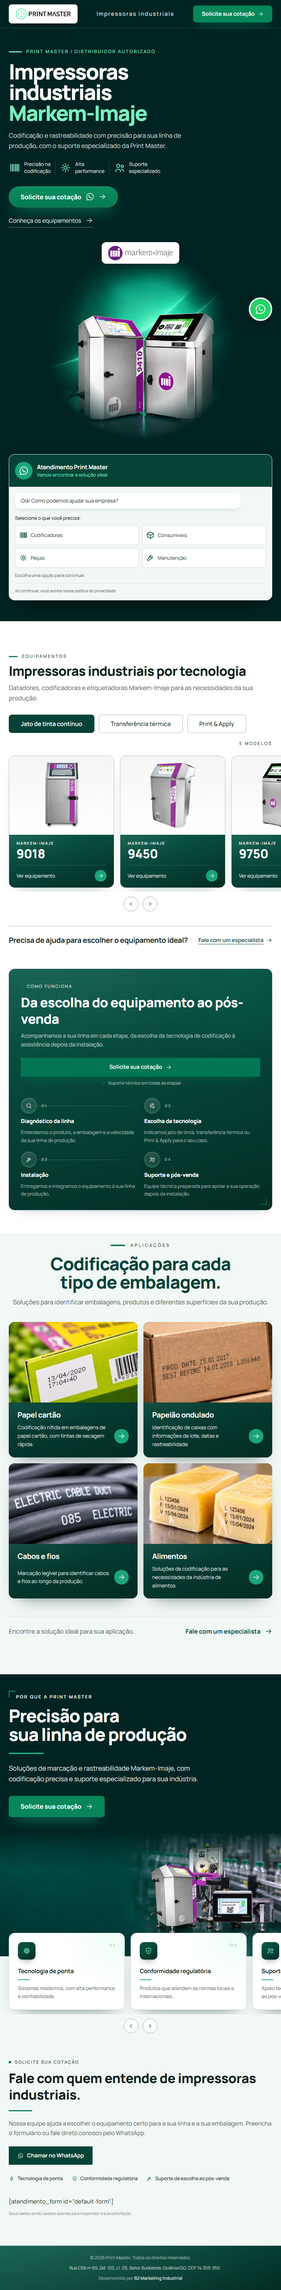
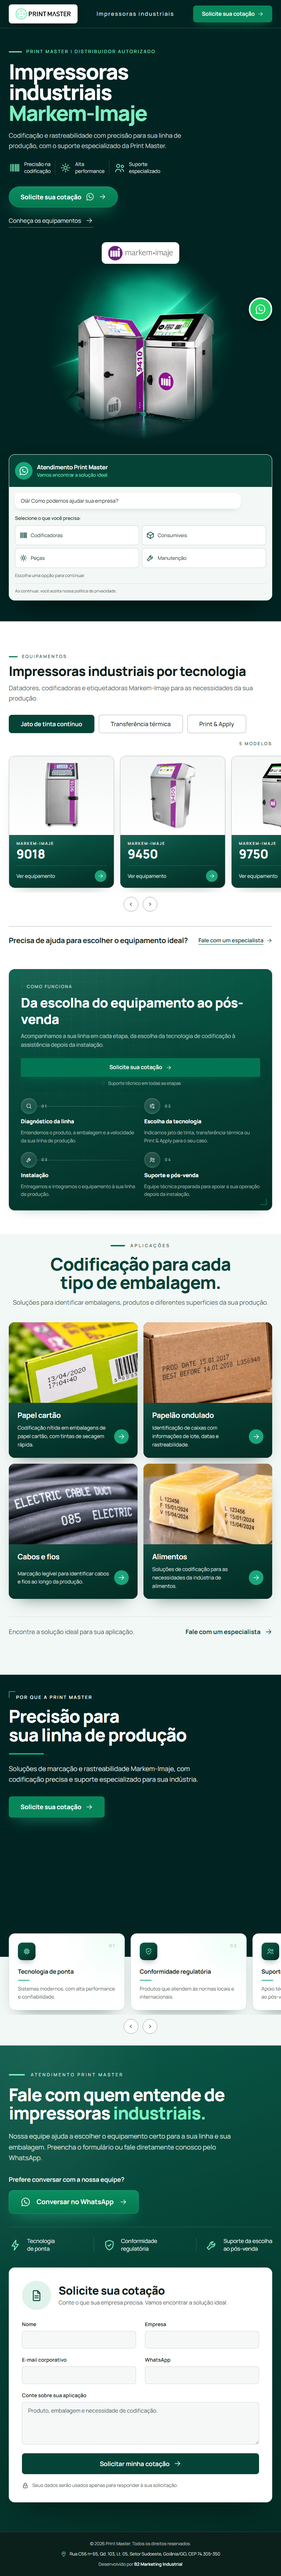
feat: cotação e rodapé no mockup da Print Master
- cotação verde-escura: o shortcode do formulário fica num card branco com
  cabeçalho e a nota de LGPD com cadeado (ícone lock novo);
- fora do WordPress, o shortcode cru vira a prévia dos campos do mockup
  antes da primeira pintura (CTA cotacao-enviar); no WordPress, o
  formulário do plugin;
- texto à direita no mockup: eyebrow "Atendimento Print Master",
  "industriais." em menta, convite e botão "Conversar no WhatsApp" e selos
  em duas linhas;
- rodapé mais escuro, alfinete em menta;
- check:lp: fundo e ritmo da Cotação repinados com comentário datado.

diff --git a/src/data/content.ts b/src/data/content.ts
@@ -110,9 +110,17 @@ export const chatPreview = {
 /* ----------------------------------------------------------------- cotação */
 
 export const quote = {
-  eyebrow: 'Solicite sua cotação',
+  /** Mockup da cotação (27/10/2026). */
+  eyebrow: 'Atendimento Print Master',
   title: 'Fale com quem entende de impressoras industriais.',
-  text: 'Nossa equipe ajuda a escolher o equipamento certo para a sua linha e a sua embalagem. Preencha o formulário ou fale direto conosco pelo WhatsApp.',
+  /** Trecho final do H2, em menta. */
+  highlight: 'industriais.',
+  text: 'Nossa equipe ajuda a escolher o equipamento certo para a sua linha e sua embalagem. Preencha o formulário ou fale diretamente conosco pelo WhatsApp.',
+  whatsappPrompt: 'Prefere conversar com a nossa equipe?',
+  whatsappLabel: 'Conversar no WhatsApp',
+  /** Cabeçalho do card do formulário (o formulário em si é o shortcode). */
+  formTitle: 'Solicite sua cotação',
+  formText: 'Conte o que sua empresa precisa. Vamos encontrar a solução ideal.',
   trust: [
     { icon: 'zap', label: 'Tecnologia de ponta' },
     { icon: 'shield', label: 'Conformidade regulatória' },
@@ -123,10 +131,35 @@ export const quote = {
 } as const satisfies {
   eyebrow: string
   title: string
+  highlight: string
   text: string
+  whatsappPrompt: string
+  whatsappLabel: string
+  formTitle: string
+  formText: string
   trust: readonly [TrustItem, TrustItem, TrustItem]
   lgpd: string
 }
+
+/**
+ * Prévia dos campos do formulário de cotação, só fora do WordPress: no lugar do texto cru do
+ * shortcode, a página mostra como o formulário aparece (mockup de 27/10/2026). No WordPress o
+ * plugin troca o shortcode pelo formulário de verdade e esta prévia não é usada.
+ */
+export const formPreview = {
+  fields: [
+    { id: 'nome', label: 'Nome', type: 'text' },
+    { id: 'empresa', label: 'Empresa', type: 'text' },
+    { id: 'email', label: 'E-mail corporativo', type: 'email' },
+    { id: 'whatsapp', label: 'WhatsApp', type: 'tel' },
+  ],
+  message: {
+    id: 'aplicacao',
+    label: 'Conte sobre sua aplicação',
+    placeholder: 'Produto, embalagem e necessidade de codificação.',
+  },
+  submit: 'Solicitar minha cotação',
+} as const
 
 /* ------------------------------------------------------------------ footer */
 

diff --git a/src/data/icons.ts b/src/data/icons.ts
@@ -93,6 +93,8 @@ export const iconPaths = {
   alert: '<path d="M12 4.3 21 19.7H3L12 4.3Z"/><path d="M12 10v3.8"/><path d="M12 16.8h.01"/>',
   'clipboard-check':
     '<rect x="5" y="4.5" width="14" height="16" rx="2"/><path d="M9 4.5V3.4c0-.5.4-.9.9-.9h4.2c.5 0 .9.4.9.9v1.1"/><path d="m9.2 12.6 2 2 3.6-4"/>',
+  // Cadeado da nota de privacidade da cotação (mockup de 27/10/2026).
+  lock: '<rect x="5" y="11" width="14" height="10" rx="2"/><path d="M8 11V7a4 4 0 0 1 8 0v4"/><path d="M12 15.5v2"/>',
 } as const satisfies Record<string, string>
 
 export type IconName = keyof typeof iconPaths

diff --git a/docs/BRIEFING.md b/docs/BRIEFING.md
@@ -118,21 +118,24 @@ Derivada em: 26/10/2026 · comando aplicado: `npm run compose -- vitrine process
 
 ## Desvios locais do padrão
 
-| Arquivo                                                                                                    | O que mudou                                                                                                                                                                                                                                                                                                   | Por quê                                                                                                                                                                                                                                                                                                                                                                                                                                                                                                |
-| ---------------------------------------------------------------------------------------------------------- | ------------------------------------------------------------------------------------------------------------------------------------------------------------------------------------------------------------------------------------------------------------------------------------------------------------- | ------------------------------------------------------------------------------------------------------------------------------------------------------------------------------------------------------------------------------------------------------------------------------------------------------------------------------------------------------------------------------------------------------------------------------------------------------------------------------------------------------ |
-| `src/styles/global.css`                                                                                    | tokens com os verdes da marca; Manrope de `@fontsource-variable/manrope` com reserva de métricas Arial                                                                                                                                                                                                        | entrada 14; a troca tardia do Google Fonts estourou o CLS no Lighthouse CI da LP de locação                                                                                                                                                                                                                                                                                                                                                                                                            |
-| `src/layouts/Layout.astro`                                                                                 | preload do woff2 latino no lugar dos links do Google Fonts                                                                                                                                                                                                                                                    | idem                                                                                                                                                                                                                                                                                                                                                                                                                                                                                                   |
-| `src/components/Header.astro`                                                                              | mockup de abertura (26/10/2026): barra verde-escura com fio menta, logo em caixa branca dentro da barra, tagline "Impressoras industriais" e CTA verde arredondado com seta                                                                                                                                   | pedido do usuário; ordem logo · tagline · CTA mantida                                                                                                                                                                                                                                                                                                                                                                                                                                                  |
-| `src/components/Hero.astro`, `src/data/content.ts`                                                         | 2º mockup de abertura (26/10/2026): eyebrow "Print Master                                                                                                                                                                                                                                                     | Distribuidor autorizado", H1 em três linhas com "Markem-Imaje" em menta, pontos sem caixa, botão em pílula com WhatsApp e link "Conheça os equipamentos" (âncora `#vitrine`, `data-cta="hero-secondary"`), selo Markem-Imaje sobre o 9410 e o 9750, banner ancorado pelo centro da coluna 2 (texto 440px · janela · chat 300px); fora do WordPress o shortcode cru do chat vira a prévia do widget (CTAs `hero-chat-codificadoras`, `-consumiveis`, `-pecas`, `-manutencao`) antes da primeira pintura | pedido do usuário; grid de três colunas e coluna de 300px do chat mantidos; o botão flutuante de WhatsApp do mockup espera o número comercial |
-| `src/components/sections/ProductShowcase.astro`, `src/data/sections/vitrine.ts`, `lp.manifest.json`        | variante local do mockup da vitrine (26/10/2026): grupos em abas acessíveis com a contagem de modelos, cards com foto grande e painel verde-escuro (marca, modelo em destaque, "Ver equipamento"), faixa "Precisa de ajuda…" com o CTA `vitrine-ajuda`                                                        | pedido do usuário; **o `compose` sobrescreve o componente** — reaplicar após recompor                                                                                                                                                                                                                                                                                                                                                                                                                  |
-| `src/components/Hero.astro` (banner)                                                                       | o banner é dimensionado pela largura entre o texto e o chat (`--photo-w`), ancorado pela base e pelo centro do par (52,5%); fundo do header e do hero em `--color-hero-deep` (#012422, a borda da imagem)                                                                                                     | o par de equipamentos tem sempre a largura da janela, em qualquer tela                                                                                                                                                                                                                                                                                                                                                                                                                                 |
-| `src/components/WhatsAppFloat.astro`, `src/layouts/Layout.astro`                                           | o botão flutuante aparece sem número: vira `button.btn-slave-whats` com `data-cta="float-whatsapp"` (o plugin abre a conversa); com número, volta a ser o link `wa.me`                                                                                                                                        | mockup de 26/10/2026; o número comercial segue pendente                                                                                                                                                                                                                                                                                                                                                                                                                                                |
-| `src/data/icons.ts`                                                                                        | ícone `whatsapp` trocado pelo glifo do WhatsApp (Tabler Icons, MIT)                                                                                                                                                                                                                                           | o balão genérico não era reconhecido como WhatsApp                                                                                                                                                                                                                                                                                                                                                                                                                                                     |
-| `src/components/sections/ApplicationsGallery.astro`, `src/data/sections/aplicacoes.ts`, `lp.manifest.json` | variante local do mockup das aplicações (27/10/2026): cabeçalho centrado com H2 em duas linhas, cards com foto 8:5 recortada do mockup e corpo verde-escuro, faixa "Encontre a solução ideal…" com o CTA `aplicacoes-cta`                                                                                     | pedido do usuário; **o `compose` sobrescreve o componente** — reaplicar após recompor                                                                                                                                                                                                                                                                                                                                                                                                                  |
-| `src/components/sections/WhyBrand.astro`, `src/data/sections/diferenciais.ts`, `lp.manifest.json`          | variante local do mockup dos diferenciais (27/10/2026): a cena cobre o bloco inteiro (no celular, vem abaixo do texto) e a pessoa recortada saiu; H2 maior com barra verde, texto curto, botão arredondado, cards com ícone em caixa menta e descrição sem corte; setas do trilho mobile ligadas (`data-why`) | pedido do usuário; **o `compose` sobrescreve o componente** — reaplicar após recompor                                                                                                                                                                                                                                                                                                                                                                                                                  |
-| `scripts/check-lp.mjs`                                                                                     | assinaturas A8 do Header e do Hero repinadas, com comentário datado                                                                                                                                                                                                                                           | o redesenho do mockup trocou as classes que o check conferia                                                                                                                                                                                                                                                                                                                                                                                                                                           |
-| `src/components/sections/ProcessSteps.astro`, `WhyBrand.astro`                                             | brilho do botão em `rgba(2,118,83,0.6)` no lugar do laranja fixo                                                                                                                                                                                                                                              | idem; **o `compose` sobrescreve estes dois** — reaplicar após recompor                                                                                                                                                                                                                                                                                                                                                                                                                                 |
-| `src/components/BrandCarousel.astro`, `src/data/brands.ts`, `src/assets/brands/`                           | removidos                                                                                                                                                                                                                                                                                                     | nenhuma seção da composição usa o carrossel (regra 12)                                                                                                                                                                                                                                                                                                                                                                                                                                                 |
+| Arquivo                                                                                                    | O que mudou                                                                                                                                                                                                                                                                                                                                                                                                                                                  | Por quê                                                                                                                                                                                                                                                                                                                                                                                                                                                                                                |
+| ---------------------------------------------------------------------------------------------------------- | ------------------------------------------------------------------------------------------------------------------------------------------------------------------------------------------------------------------------------------------------------------------------------------------------------------------------------------------------------------------------------------------------------------------------------------------------------------ | ------------------------------------------------------------------------------------------------------------------------------------------------------------------------------------------------------------------------------------------------------------------------------------------------------------------------------------------------------------------------------------------------------------------------------------------------------------------------------------------------------ |
+| `src/styles/global.css`                                                                                    | tokens com os verdes da marca; Manrope de `@fontsource-variable/manrope` com reserva de métricas Arial                                                                                                                                                                                                                                                                                                                                                       | entrada 14; a troca tardia do Google Fonts estourou o CLS no Lighthouse CI da LP de locação                                                                                                                                                                                                                                                                                                                                                                                                            |
+| `src/layouts/Layout.astro`                                                                                 | preload do woff2 latino no lugar dos links do Google Fonts                                                                                                                                                                                                                                                                                                                                                                                                   | idem                                                                                                                                                                                                                                                                                                                                                                                                                                                                                                   |
+| `src/components/Header.astro`                                                                              | mockup de abertura (26/10/2026): barra verde-escura com fio menta, logo em caixa branca dentro da barra, tagline "Impressoras industriais" e CTA verde arredondado com seta                                                                                                                                                                                                                                                                                  | pedido do usuário; ordem logo · tagline · CTA mantida                                                                                                                                                                                                                                                                                                                                                                                                                                                  |
+| `src/components/Hero.astro`, `src/data/content.ts`                                                         | 2º mockup de abertura (26/10/2026): eyebrow "Print Master                                                                                                                                                                                                                                                                                                                                                                                                    | Distribuidor autorizado", H1 em três linhas com "Markem-Imaje" em menta, pontos sem caixa, botão em pílula com WhatsApp e link "Conheça os equipamentos" (âncora `#vitrine`, `data-cta="hero-secondary"`), selo Markem-Imaje sobre o 9410 e o 9750, banner ancorado pelo centro da coluna 2 (texto 440px · janela · chat 300px); fora do WordPress o shortcode cru do chat vira a prévia do widget (CTAs `hero-chat-codificadoras`, `-consumiveis`, `-pecas`, `-manutencao`) antes da primeira pintura | pedido do usuário; grid de três colunas e coluna de 300px do chat mantidos; o botão flutuante de WhatsApp do mockup espera o número comercial |
+| `src/components/sections/ProductShowcase.astro`, `src/data/sections/vitrine.ts`, `lp.manifest.json`        | variante local do mockup da vitrine (26/10/2026): grupos em abas acessíveis com a contagem de modelos, cards com foto grande e painel verde-escuro (marca, modelo em destaque, "Ver equipamento"), faixa "Precisa de ajuda…" com o CTA `vitrine-ajuda`                                                                                                                                                                                                       | pedido do usuário; **o `compose` sobrescreve o componente** — reaplicar após recompor                                                                                                                                                                                                                                                                                                                                                                                                                  |
+| `src/components/Hero.astro` (banner)                                                                       | o banner é dimensionado pela largura entre o texto e o chat (`--photo-w`), ancorado pela base e pelo centro do par (52,5%); fundo do header e do hero em `--color-hero-deep` (#012422, a borda da imagem)                                                                                                                                                                                                                                                    | o par de equipamentos tem sempre a largura da janela, em qualquer tela                                                                                                                                                                                                                                                                                                                                                                                                                                 |
+| `src/components/WhatsAppFloat.astro`, `src/layouts/Layout.astro`                                           | o botão flutuante aparece sem número: vira `button.btn-slave-whats` com `data-cta="float-whatsapp"` (o plugin abre a conversa); com número, volta a ser o link `wa.me`                                                                                                                                                                                                                                                                                       | mockup de 26/10/2026; o número comercial segue pendente                                                                                                                                                                                                                                                                                                                                                                                                                                                |
+| `src/data/icons.ts`                                                                                        | ícone `whatsapp` trocado pelo glifo do WhatsApp (Tabler Icons, MIT)                                                                                                                                                                                                                                                                                                                                                                                          | o balão genérico não era reconhecido como WhatsApp                                                                                                                                                                                                                                                                                                                                                                                                                                                     |
+| `src/components/sections/ApplicationsGallery.astro`, `src/data/sections/aplicacoes.ts`, `lp.manifest.json` | variante local do mockup das aplicações (27/10/2026): cabeçalho centrado com H2 em duas linhas, cards com foto 8:5 recortada do mockup e corpo verde-escuro, faixa "Encontre a solução ideal…" com o CTA `aplicacoes-cta`                                                                                                                                                                                                                                    | pedido do usuário; **o `compose` sobrescreve o componente** — reaplicar após recompor                                                                                                                                                                                                                                                                                                                                                                                                                  |
+| `src/components/sections/WhyBrand.astro`, `src/data/sections/diferenciais.ts`, `lp.manifest.json`          | variante local do mockup dos diferenciais (27/10/2026): a cena cobre o bloco inteiro (no celular, vem abaixo do texto) e a pessoa recortada saiu; H2 maior com barra verde, texto curto, botão arredondado, cards com ícone em caixa menta e descrição sem corte; setas do trilho mobile ligadas (`data-why`)                                                                                                                                                | pedido do usuário; **o `compose` sobrescreve o componente** — reaplicar após recompor                                                                                                                                                                                                                                                                                                                                                                                                                  |
+| `src/components/QuoteForm.astro`, `src/data/content.ts`, `src/data/icons.ts`                               | mockup da cotação (27/10/2026): seção verde-escura; o shortcode do formulário fica num card branco com cabeçalho ("Solicite sua cotação") e a nota de LGPD com cadeado (ícone `lock` novo); fora do WordPress o shortcode cru vira a prévia dos campos (Nome, Empresa, E-mail, WhatsApp, aplicação; CTA `cotacao-enviar`); à direita, "industriais." em menta, "Prefere conversar com a nossa equipe?", botão "Conversar no WhatsApp" e selos em duas linhas | pedido do usuário; grid 1.05fr · 1fr, ordem e `cotacao-whatsapp` mantidos                                                                                                                                                                                                                                                                                                                                                                                                                              |
+| `src/components/Footer.astro`                                                                              | fundo #0b201b (mais escuro que o navy-premium), alfinete em menta e textos mais claros                                                                                                                                                                                                                                                                                                                                                                       | mockup da cotação (27/10/2026); uma linha, três itens, como no padrão                                                                                                                                                                                                                                                                                                                                                                                                                                  |
+| `scripts/check-lp.mjs`                                                                                     | assinaturas A8 do Header e do Hero repinadas, com comentário datado                                                                                                                                                                                                                                                                                                                                                                                          | o redesenho do mockup trocou as classes que o check conferia                                                                                                                                                                                                                                                                                                                                                                                                                                           |
+| `scripts/check-lp.mjs` (A8, cotação)                                                                       | fundo e ritmo esperados da Cotação repinados para `quote-section` e `pt-16 pb-20`, com comentário datado                                                                                                                                                                                                                                                                                                                                                     | a Cotação passou a ser verde-escura no mockup de 27/10/2026                                                                                                                                                                                                                                                                                                                                                                                                                                            |
+| `src/components/sections/ProcessSteps.astro`, `WhyBrand.astro`                                             | brilho do botão em `rgba(2,118,83,0.6)` no lugar do laranja fixo                                                                                                                                                                                                                                                                                                                                                                                             | idem; **o `compose` sobrescreve estes dois** — reaplicar após recompor                                                                                                                                                                                                                                                                                                                                                                                                                                 |
+| `src/components/BrandCarousel.astro`, `src/data/brands.ts`, `src/assets/brands/`                           | removidos                                                                                                                                                                                                                                                                                                                                                                                                                                                    | nenhuma seção da composição usa o carrossel (regra 12)                                                                                                                                                                                                                                                                                                                                                                                                                                                 |
 
 ## Conflitos com o padrão
 

diff --git a/docs/FICHA-LP.md b/docs/FICHA-LP.md
@@ -93,9 +93,10 @@ conteudo:
         line1: Suporte
         line2: especializado
   quote:
-    eyebrow: Solicite sua cotação
+    # mockup da cotação de 27/10/2026
+    eyebrow: Atendimento Print Master
     title: Fale com quem entende de impressoras industriais.
-    text: Nossa equipe ajuda a escolher o equipamento certo para a sua linha e a sua embalagem. Preencha o formulário ou fale direto conosco pelo WhatsApp.
+    text: Nossa equipe ajuda a escolher o equipamento certo para a sua linha e sua embalagem. Preencha o formulário ou fale diretamente conosco pelo WhatsApp.
     trust:
       - icon: zap
         label: Tecnologia de ponta
